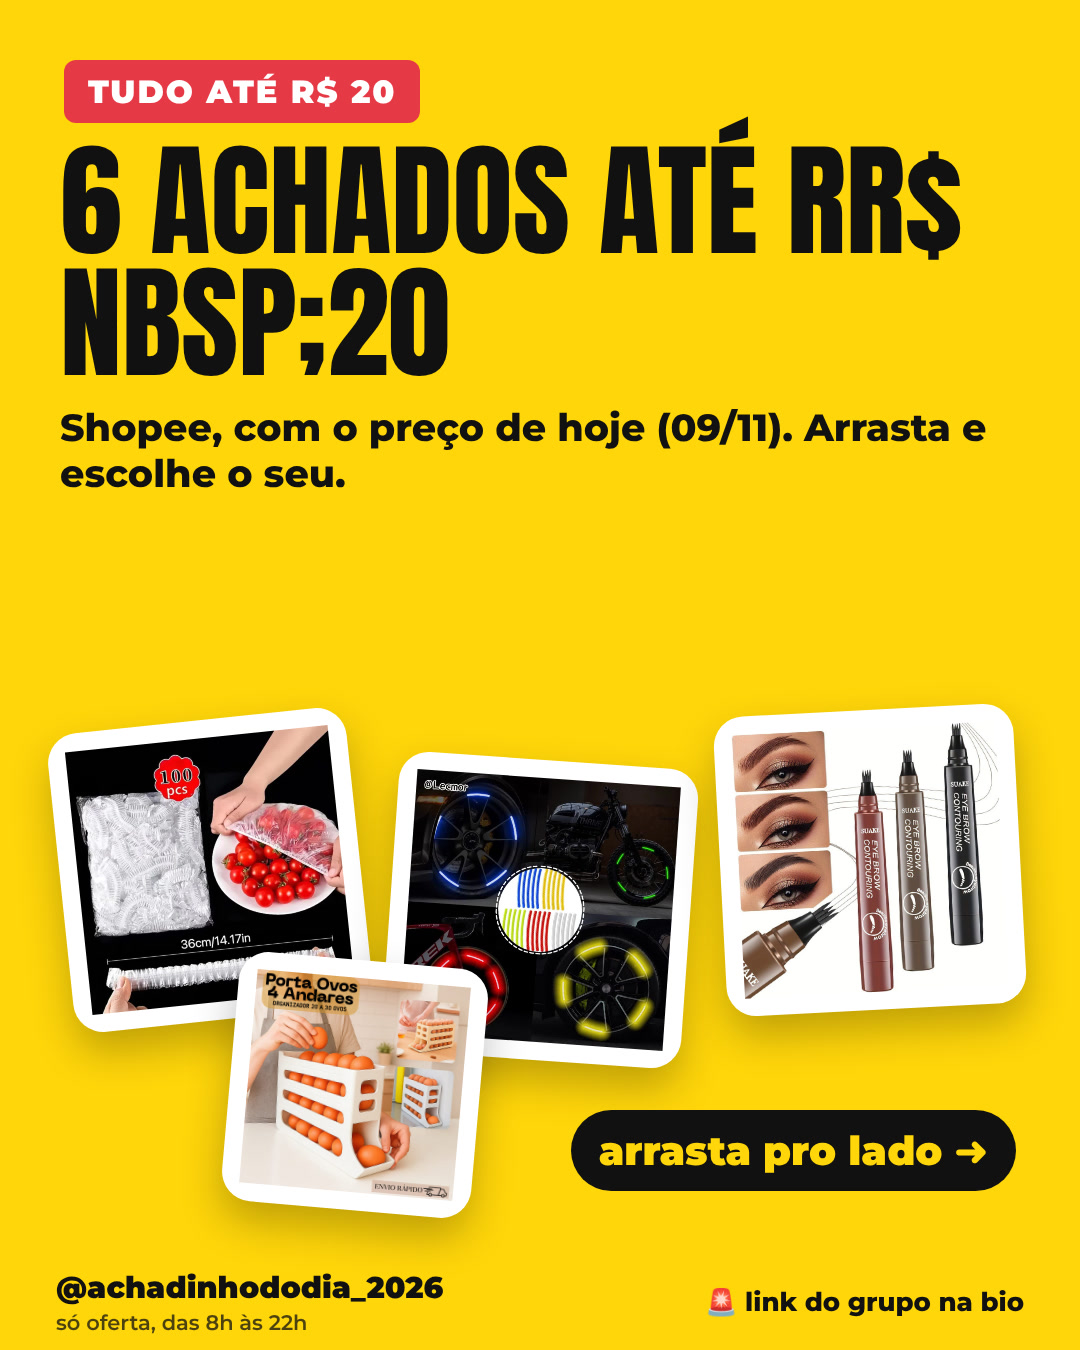
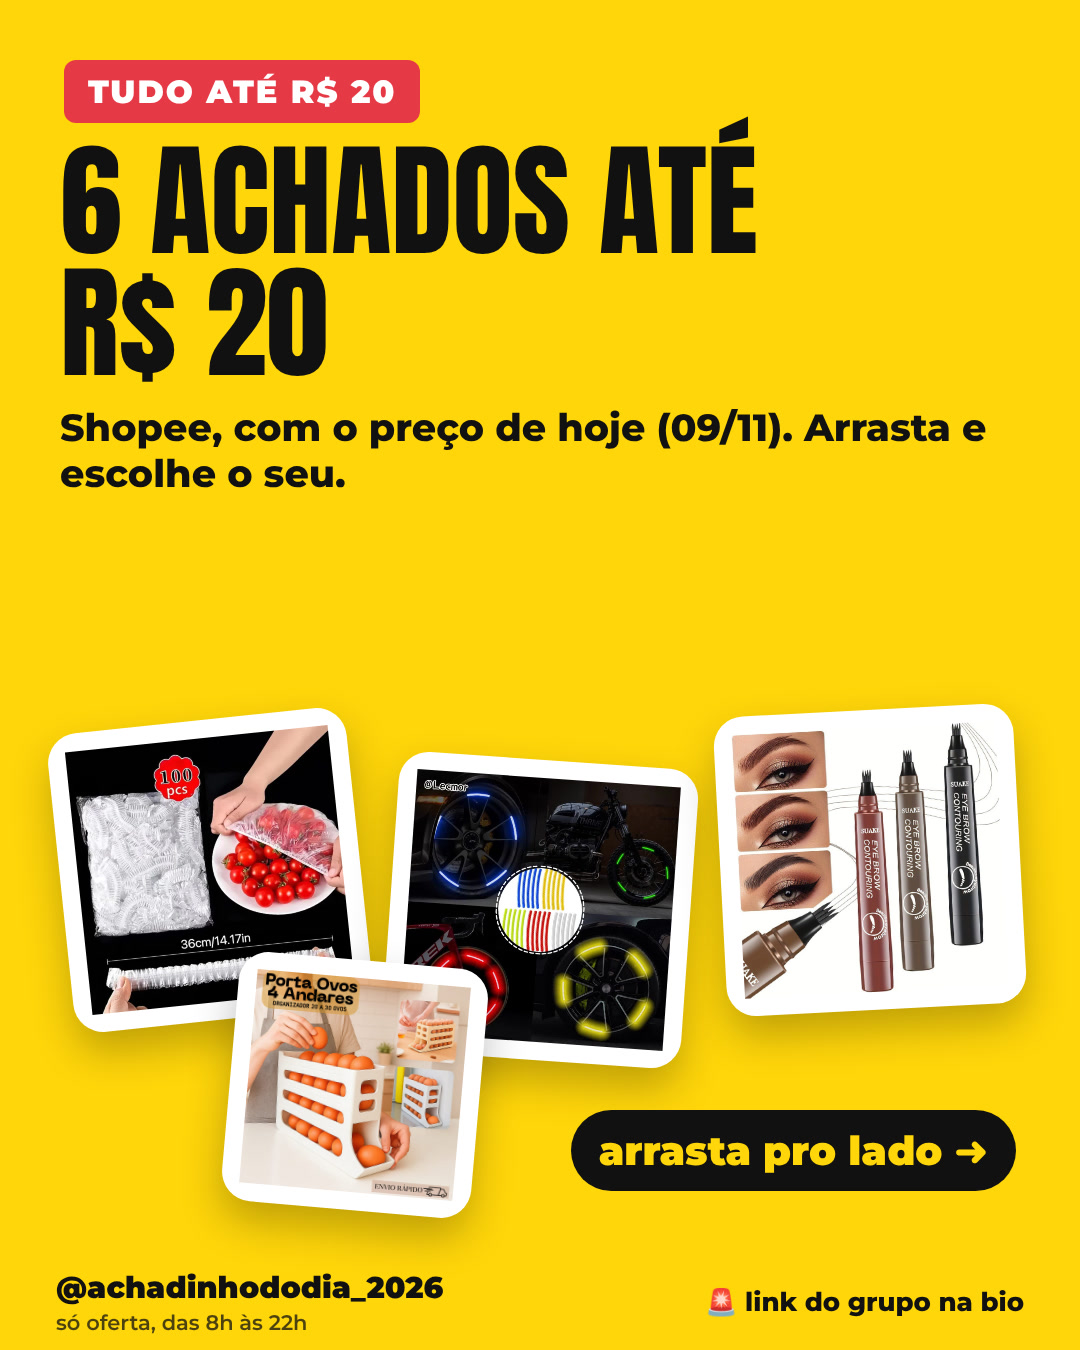
Achadinho: 15 carrosséis femininos do 11.11 + stories; capas corrigidas (R$ 20 e R$ 50)
Claude-Session: https://claude.ai/code/session_01MMuTZmfg1esfMgxEWyGpoy

Changed region(s): [[0.0611, 0.1867, 0.4278, 0.28], [0.7333, 0.0933, 0.8861, 0.1867]]

diff --git a/achadinhos/INDICE.md b/achadinhos/INDICE.md
@@ -9,10 +9,40 @@ Gerado por `tools/social/sincronizar_midia.py --cliente achadinhos`. Não edite 
 | 2026-11-09-21h-story-grupo-diversos | Carrossel | 1 | grupo Diversos | ✅ agendado | [instagram/2026-11/carrosseis/2026-11-09-21h-story-grupo-diversos](instagram/2026-11/carrosseis/2026-11-09-21h-story-grupo-diversos/folha.png) |
 | 2026-11-09-22h-apoio-lombar-asfalto | Carrossel | 1 | Apoio Lombar Ergonômico | ✅ agendado | [instagram/2026-11/carrosseis/2026-11-09-22h-apoio-lombar-asfalto](instagram/2026-11/carrosseis/2026-11-09-22h-apoio-lombar-asfalto/folha.png) |
 | 2026-11-09-22h-carrossel-ate-20-reais | Carrossel | 8 | 6 achados até R$ 20 | ✅ agendado | [instagram/2026-11/carrosseis/2026-11-09-22h-carrossel-ate-20-reais](instagram/2026-11/carrosseis/2026-11-09-22h-carrossel-ate-20-reais/folha.png) |
+| 2026-11-09-22h-carrossel-autocuidado-ate-30 | Carrossel | 5 | Autocuidado abaixo de R$ 30 | ✅ agendado | [instagram/2026-11/carrosseis/2026-11-09-22h-carrossel-autocuidado-ate-30](instagram/2026-11/carrosseis/2026-11-09-22h-carrossel-autocuidado-ate-30/folha.png) |
+| 2026-11-09-22h-carrossel-eu-compraria-1111 | Carrossel | 7 | Itens que eu compraria no 11.11 sem culpa | ✅ agendado | [instagram/2026-11/carrosseis/2026-11-09-22h-carrossel-eu-compraria-1111](instagram/2026-11/carrosseis/2026-11-09-22h-carrossel-eu-compraria-1111/folha.png) |
+| 2026-11-09-22h-carrossel-geladeira-organizada | Carrossel | 5 | Geladeira organizada em 3 achados | ✅ agendado | [instagram/2026-11/carrosseis/2026-11-09-22h-carrossel-geladeira-organizada](instagram/2026-11/carrosseis/2026-11-09-22h-carrossel-geladeira-organizada/folha.png) |
+| 2026-11-09-22h-carrossel-lista-de-casa-1111 | Carrossel | 7 | Minha lista de casa pro 11.11 | ✅ agendado | [instagram/2026-11/carrosseis/2026-11-09-22h-carrossel-lista-de-casa-1111](instagram/2026-11/carrosseis/2026-11-09-22h-carrossel-lista-de-casa-1111/folha.png) |
+| 2026-11-09-22h-carrossel-mais-vendidos-1111 | Carrossel | 7 | Os mais vendidos que eu levaria no 11.11 | ✅ agendado | [instagram/2026-11/carrosseis/2026-11-09-22h-carrossel-mais-vendidos-1111](instagram/2026-11/carrosseis/2026-11-09-22h-carrossel-mais-vendidos-1111/folha.png) |
+| 2026-11-09-22h-carrossel-meu-carrinho-1111 | Carrossel | 7 | O que tem no meu carrinho do 11.11 | ✅ agendado | [instagram/2026-11/carrosseis/2026-11-09-22h-carrossel-meu-carrinho-1111](instagram/2026-11/carrosseis/2026-11-09-22h-carrossel-meu-carrinho-1111/folha.png) |
+| 2026-11-09-22h-carrossel-pra-mamae-1111 | Carrossel | 6 | 4 achados pra mamãe salvar | ✅ agendado | [instagram/2026-11/carrosseis/2026-11-09-22h-carrossel-pra-mamae-1111](instagram/2026-11/carrosseis/2026-11-09-22h-carrossel-pra-mamae-1111/folha.png) |
+| 2026-11-09-22h-carrossel-presente-pra-voce | Carrossel | 6 | Presente pra você mesma, tudo até R$ 50 | ✅ agendado | [instagram/2026-11/carrosseis/2026-11-09-22h-carrossel-presente-pra-voce](instagram/2026-11/carrosseis/2026-11-09-22h-carrossel-presente-pra-voce/folha.png) |
+| 2026-11-09-22h-carrossel-top5-indico-1111 | Carrossel | 7 | Top 5 itens que eu indico você comprar no 11.11 | ✅ agendado | [instagram/2026-11/carrosseis/2026-11-09-22h-carrossel-top5-indico-1111](instagram/2026-11/carrosseis/2026-11-09-22h-carrossel-top5-indico-1111/folha.png) |
 | 2026-11-09-22h-story-isca-porta-ovos | Carrossel | 1 | Porta-Ovos Rolante 4 Andares | ✅ agendado | [instagram/2026-11/carrosseis/2026-11-09-22h-story-isca-porta-ovos](instagram/2026-11/carrosseis/2026-11-09-22h-story-isca-porta-ovos/folha.png) |
+| 2026-11-09-22h-story-post-autocuidado-ate-30 | Carrossel | 1 | Autocuidado abaixo de R$ 30 | ✅ agendado | [instagram/2026-11/carrosseis/2026-11-09-22h-story-post-autocuidado-ate-30](instagram/2026-11/carrosseis/2026-11-09-22h-story-post-autocuidado-ate-30/folha.png) |
+| 2026-11-09-22h-story-post-eu-compraria-1111 | Carrossel | 1 | Itens que eu compraria no 11.11 sem culpa | ✅ agendado | [instagram/2026-11/carrosseis/2026-11-09-22h-story-post-eu-compraria-1111](instagram/2026-11/carrosseis/2026-11-09-22h-story-post-eu-compraria-1111/folha.png) |
+| 2026-11-09-22h-story-post-geladeira-organizada | Carrossel | 1 | Geladeira organizada em 3 achados | ✅ agendado | [instagram/2026-11/carrosseis/2026-11-09-22h-story-post-geladeira-organizada](instagram/2026-11/carrosseis/2026-11-09-22h-story-post-geladeira-organizada/folha.png) |
+| 2026-11-09-22h-story-post-lista-de-casa-1111 | Carrossel | 1 | Minha lista de casa pro 11.11 | ✅ agendado | [instagram/2026-11/carrosseis/2026-11-09-22h-story-post-lista-de-casa-1111](instagram/2026-11/carrosseis/2026-11-09-22h-story-post-lista-de-casa-1111/folha.png) |
+| 2026-11-09-22h-story-post-mais-vendidos-1111 | Carrossel | 1 | Os mais vendidos que eu levaria no 11.11 | ✅ agendado | [instagram/2026-11/carrosseis/2026-11-09-22h-story-post-mais-vendidos-1111](instagram/2026-11/carrosseis/2026-11-09-22h-story-post-mais-vendidos-1111/folha.png) |
+| 2026-11-09-22h-story-post-meu-carrinho-1111 | Carrossel | 1 | O que tem no meu carrinho do 11.11 | ✅ agendado | [instagram/2026-11/carrosseis/2026-11-09-22h-story-post-meu-carrinho-1111](instagram/2026-11/carrosseis/2026-11-09-22h-story-post-meu-carrinho-1111/folha.png) |
+| 2026-11-09-22h-story-post-pra-mamae-1111 | Carrossel | 1 | 4 achados pra mamãe salvar | ✅ agendado | [instagram/2026-11/carrosseis/2026-11-09-22h-story-post-pra-mamae-1111](instagram/2026-11/carrosseis/2026-11-09-22h-story-post-pra-mamae-1111/folha.png) |
+| 2026-11-09-22h-story-post-presente-pra-voce | Carrossel | 1 | Presente pra você mesma, tudo até R$ 50 | ✅ agendado | [instagram/2026-11/carrosseis/2026-11-09-22h-story-post-presente-pra-voce](instagram/2026-11/carrosseis/2026-11-09-22h-story-post-presente-pra-voce/folha.png) |
+| 2026-11-09-22h-story-post-top5-indico-1111 | Carrossel | 1 | Top 5 itens que eu indico você comprar no 11.11 | ✅ agendado | [instagram/2026-11/carrosseis/2026-11-09-22h-story-post-top5-indico-1111](instagram/2026-11/carrosseis/2026-11-09-22h-story-post-top5-indico-1111/folha.png) |
+| 2026-11-09-23h-carrossel-abaixo-de-15 | Carrossel | 6 | Abaixo de R$ 15 no 11.11? Tem sim | ✅ agendado | [instagram/2026-11/carrosseis/2026-11-09-23h-carrossel-abaixo-de-15](instagram/2026-11/carrosseis/2026-11-09-23h-carrossel-abaixo-de-15/folha.png) |
+| 2026-11-09-23h-carrossel-checklist-1111 | Carrossel | 3 | Checklist do 11.11: salva e confere na quarta | ✅ agendado | [instagram/2026-11/carrosseis/2026-11-09-23h-carrossel-checklist-1111](instagram/2026-11/carrosseis/2026-11-09-23h-carrossel-checklist-1111/folha.png) |
+| 2026-11-09-23h-carrossel-cozinha-pratica | Carrossel | 6 | Cozinha prática pra quem não tem tempo | ✅ agendado | [instagram/2026-11/carrosseis/2026-11-09-23h-carrossel-cozinha-pratica](instagram/2026-11/carrosseis/2026-11-09-23h-carrossel-cozinha-pratica/folha.png) |
+| 2026-11-09-23h-carrossel-pra-levar-na-bolsa | Carrossel | 5 | 3 achados pra levar na bolsa | ✅ agendado | [instagram/2026-11/carrosseis/2026-11-09-23h-carrossel-pra-levar-na-bolsa](instagram/2026-11/carrosseis/2026-11-09-23h-carrossel-pra-levar-na-bolsa/folha.png) |
+| 2026-11-09-23h-carrossel-shopee-ou-mercado-livre | Carrossel | 6 | Shopee ou Mercado Livre? O que eu levaria de cada | ✅ agendado | [instagram/2026-11/carrosseis/2026-11-09-23h-carrossel-shopee-ou-mercado-livre](instagram/2026-11/carrosseis/2026-11-09-23h-carrossel-shopee-ou-mercado-livre/folha.png) |
+| 2026-11-09-23h-carrossel-treino-gastando-pouco | Carrossel | 6 | Treino em dia gastando pouco | ✅ agendado | [instagram/2026-11/carrosseis/2026-11-09-23h-carrossel-treino-gastando-pouco](instagram/2026-11/carrosseis/2026-11-09-23h-carrossel-treino-gastando-pouco/folha.png) |
 | 2026-11-09-23h-creatina-soldiers-estrelas | Carrossel | 1 | Creatina Soldiers Nutrition 1 kg | ✅ agendado | [instagram/2026-11/carrosseis/2026-11-09-23h-creatina-soldiers-estrelas](instagram/2026-11/carrosseis/2026-11-09-23h-creatina-soldiers-estrelas/folha.png) |
 | 2026-11-09-23h-lapis-sobrancelha-zap | Carrossel | 1 | Lápis de Sobrancelha Líquido | ✅ agendado | [instagram/2026-11/carrosseis/2026-11-09-23h-lapis-sobrancelha-zap](instagram/2026-11/carrosseis/2026-11-09-23h-lapis-sobrancelha-zap/folha.png) |
 | 2026-11-09-23h-story-grupo-casa | Carrossel | 1 | grupo Casa | ✅ agendado | [instagram/2026-11/carrosseis/2026-11-09-23h-story-grupo-casa](instagram/2026-11/carrosseis/2026-11-09-23h-story-grupo-casa/folha.png) |
+| 2026-11-09-23h-story-post-abaixo-de-15 | Carrossel | 1 | Abaixo de R$ 15 no 11.11? Tem sim | ✅ agendado | [instagram/2026-11/carrosseis/2026-11-09-23h-story-post-abaixo-de-15](instagram/2026-11/carrosseis/2026-11-09-23h-story-post-abaixo-de-15/folha.png) |
+| 2026-11-09-23h-story-post-checklist-1111 | Carrossel | 1 | Checklist do 11.11: salva e confere na quarta | ✅ agendado | [instagram/2026-11/carrosseis/2026-11-09-23h-story-post-checklist-1111](instagram/2026-11/carrosseis/2026-11-09-23h-story-post-checklist-1111/folha.png) |
+| 2026-11-09-23h-story-post-cozinha-pratica | Carrossel | 1 | Cozinha prática pra quem não tem tempo | ✅ agendado | [instagram/2026-11/carrosseis/2026-11-09-23h-story-post-cozinha-pratica](instagram/2026-11/carrosseis/2026-11-09-23h-story-post-cozinha-pratica/folha.png) |
+| 2026-11-09-23h-story-post-pra-levar-na-bolsa | Carrossel | 1 | 3 achados pra levar na bolsa | ✅ agendado | [instagram/2026-11/carrosseis/2026-11-09-23h-story-post-pra-levar-na-bolsa](instagram/2026-11/carrosseis/2026-11-09-23h-story-post-pra-levar-na-bolsa/folha.png) |
+| 2026-11-09-23h-story-post-shopee-ou-mercado-livre | Carrossel | 1 | Shopee ou Mercado Livre? O que eu levaria de cada | ✅ agendado | [instagram/2026-11/carrosseis/2026-11-09-23h-story-post-shopee-ou-mercado-livre](instagram/2026-11/carrosseis/2026-11-09-23h-story-post-shopee-ou-mercado-livre/folha.png) |
+| 2026-11-09-23h-story-post-treino-gastando-pouco | Carrossel | 1 | Treino em dia gastando pouco | ✅ agendado | [instagram/2026-11/carrosseis/2026-11-09-23h-story-post-treino-gastando-pouco](instagram/2026-11/carrosseis/2026-11-09-23h-story-post-treino-gastando-pouco/folha.png) |
 | 2026-11-10-07h-power-bank-carrinho | Carrossel | 1 | Mini Power Bank 10.000 mAh | ✅ agendado | [instagram/2026-11/carrosseis/2026-11-10-07h-power-bank-carrinho](instagram/2026-11/carrosseis/2026-11-10-07h-power-bank-carrinho/folha.png) |
 | 2026-11-10-07h-story-tres-por-hora | Carrossel | 1 | contagem | ✅ agendado | [instagram/2026-11/carrosseis/2026-11-10-07h-story-tres-por-hora](instagram/2026-11/carrosseis/2026-11-10-07h-story-tres-por-hora/folha.png) |
 | 2026-11-10-07h-umidificador-egg-minimal | Carrossel | 1 | Mini Umidificador Difusor Egg | ✅ agendado | [instagram/2026-11/carrosseis/2026-11-10-07h-umidificador-egg-minimal](instagram/2026-11/carrosseis/2026-11-10-07h-umidificador-egg-minimal/folha.png) |
